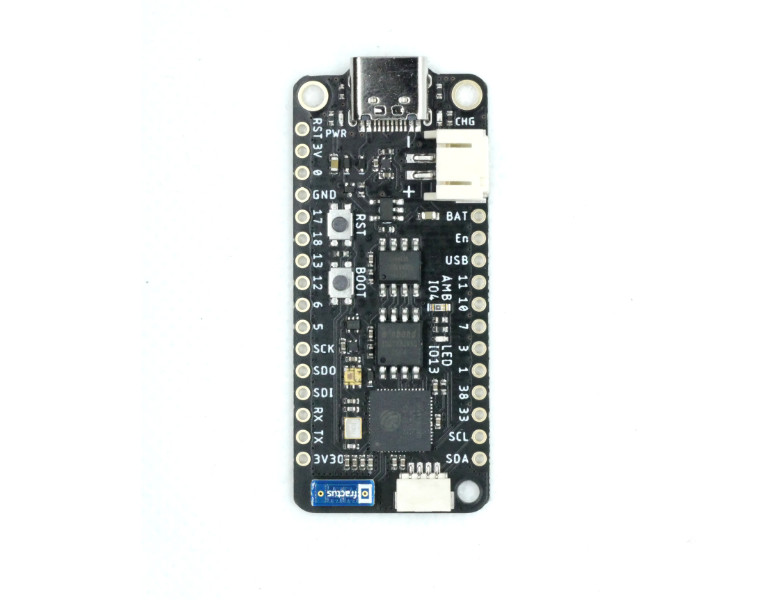
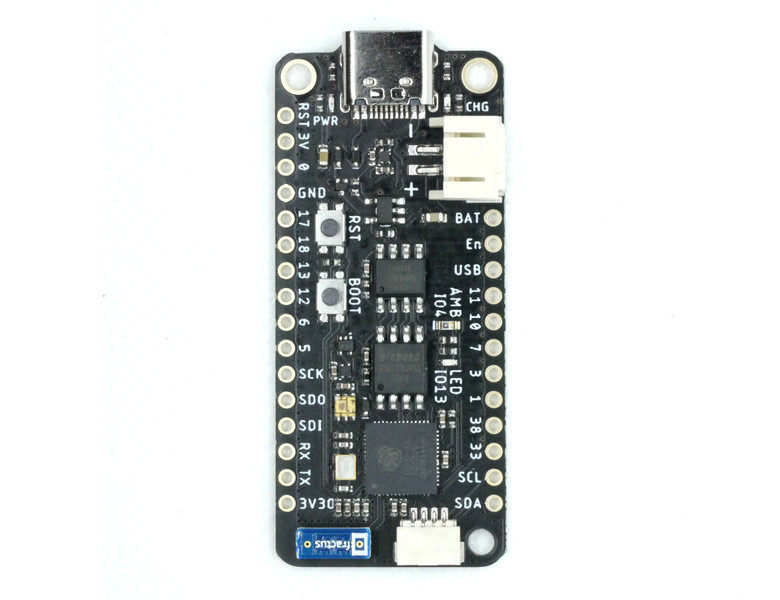
Re-Added FeatherS2 pre-release board file and images and updated production board images.

Changed region(s): [[0.3385, 0.03, 0.6769, 0.96]]

diff --git a/_board/unexpectedmaker_feathers2_prerelease.md b/_board/unexpectedmaker_feathers2_prerelease.md
@@ -1,20 +1,22 @@
 ---
 layout: download
 board_id: "unexpectedmaker_feathers2_prerelease"
-title: "FeatherS2 Prerelease Download"
-name: "FeatherS2 Prerelease"
+title: "Unexpected Maker FeatherS2 Prerelease Download"
+name: " Unexpected MakerFeatherS2 Prerelease"
 manufacturer: "Unexpected Maker"
 board_url: ""
-board_image: "unexpectedmaker_feathers2.jpg"
-date_added: 2020-10-2
+board_image: "unexpectedmaker_feathers2_prerelease.jpg"
+date_added: 2020-6-14
 features:
   - Feather-Compatible
   - Battery Charging
+  - Dual LDO
   - Wi-Fi
   - STEMMA QT/QWIIC
 ---
 
-Introducing the FeatherS2 - The PRO ESP32-S2 based development board in a Feather format!
+Pre-Release version of the FeatherS2
+For those that purchased the pre-release version and would like to run CircuitPython on it without having to compile from source.
 
 **Features & Specifications**
  - 32-bit 240 MHz single-core processor 
@@ -40,7 +42,7 @@ Yup! The first one is for the general operation of the board and the ESP32-S2, R
 The second LDO is for you to use to connect external 3V3 modules, sensors and peripherals, and it has programmable EN control tied to GPIO21 + it’s connected to the deep sleep capabilities of the S2, so if the S2 goes into deep sleep, the 2nd LDO is automatically shut down for you!
 
 ## Purchase
-* [Unexpected Maker](https://unexpectedmaker.com/shop/feathers2-esp32-s2)
+No longer available for purchase
 
 ## Contribute
 

diff --git a/_board/unexpectedmaker_feathers2.md b/_board/unexpectedmaker_feathers2.md
@@ -1,15 +1,16 @@
 ---
 layout: download
 board_id: "unexpectedmaker_feathers2"
-title: "Unexpected Maker Feather S2 Download"
-name: "Unexpected Maker Feather S2"
+title: "Unexpected Maker FeatherS2 Download"
+name: "Unexpected Maker FeatherS2"
 manufacturer: "Unexpected Maker"
 board_url: ""
 board_image: "unexpectedmaker_feathers2.jpg"
-date_added: 2020-6-14
+date_added: 2020-10-1
 features:
   - Feather-Compatible
   - Battery Charging
+  - Dual LDO
   - Wi-Fi
   - STEMMA QT/QWIIC
 ---
